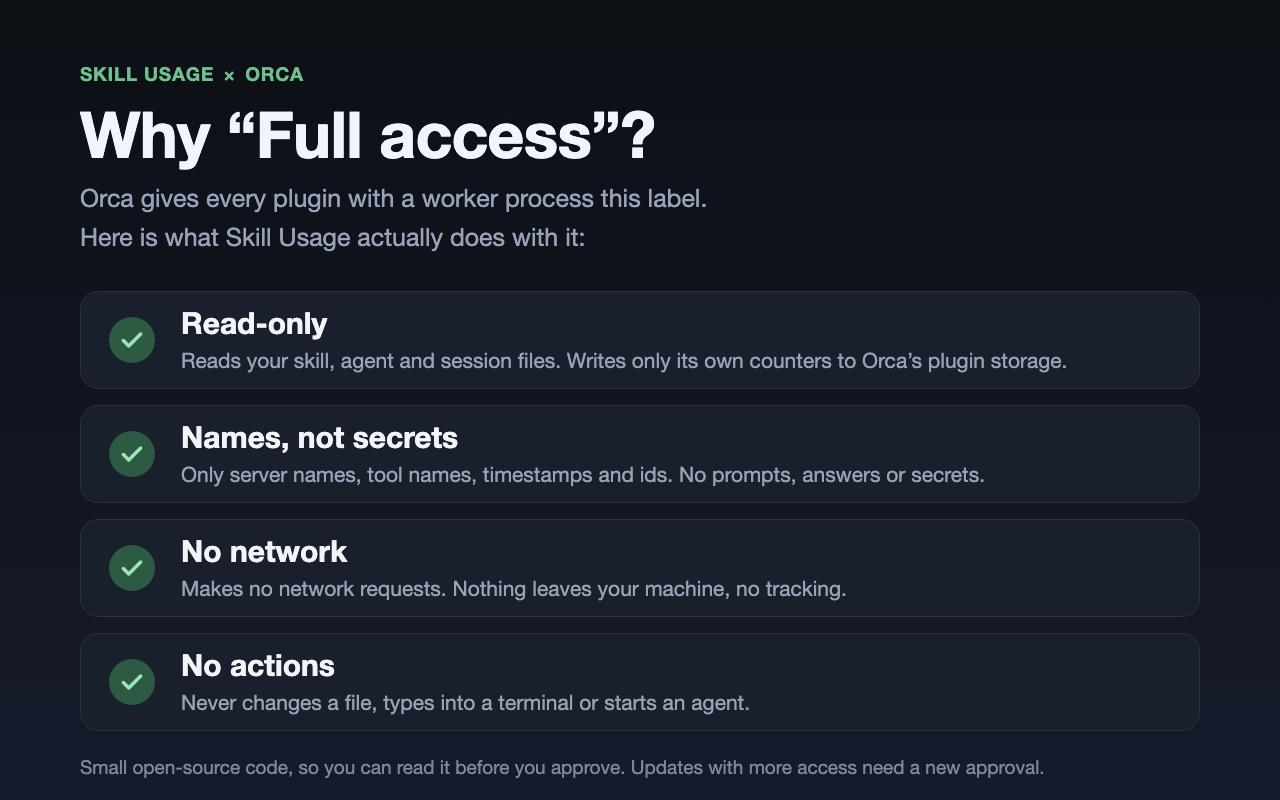
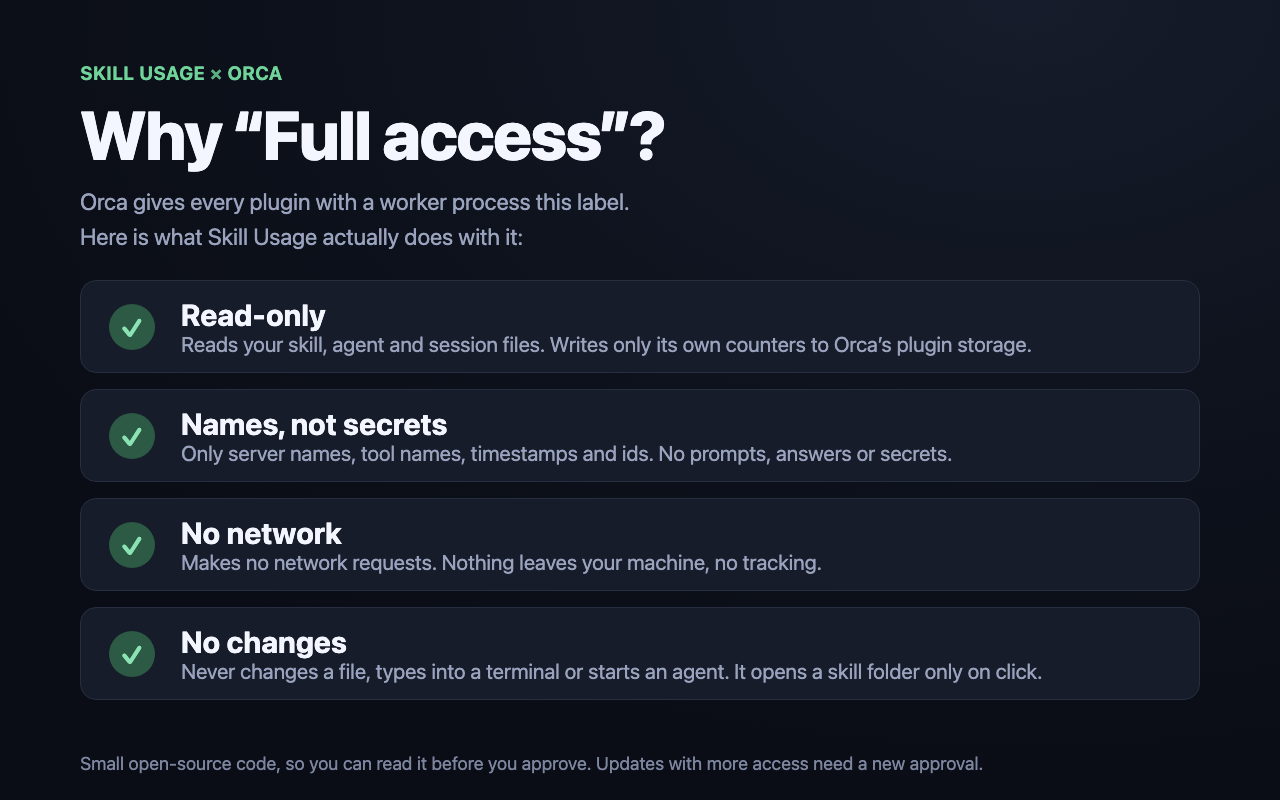
Version 1.1.0: new screenshots, README and CLAUDE.md

diff --git a/tools/build-assets.py b/tools/build-assets.py
@@ -1,0 +1,54 @@
+# Builds the picture cards in assets/ from panel shots (see CLAUDE.md, "Bilder neu erzeugen").
+# Usage: python3 tools/build-assets.py <work dir with panels/*.png>; writes <work dir>/out/*.png.
+import subprocess,os,sys
+S=os.path.abspath(sys.argv[1])
+os.makedirs(S+'/cards',exist_ok=True);os.makedirs(S+'/out',exist_ok=True)
+CHROME="/Applications/Google Chrome.app/Contents/MacOS/Google Chrome"
+CSS="""
+*{box-sizing:border-box;margin:0}
+body{font-family:-apple-system,BlinkMacSystemFont,'Inter','Helvetica Neue',Arial,sans-serif;color:#f1f4ff;background:radial-gradient(1200px 800px at 80% 0%,#161c2b 0%,#0d111b 60%,#0a0d15 100%);overflow:hidden}
+.eyebrow{color:#6fd39a;font-weight:700;letter-spacing:.02em;text-transform:uppercase}
+h1{font-weight:800;letter-spacing:-.02em;line-height:1.08;color:#f4f6ff}
+p{color:#9aa3bd;line-height:1.5}
+.frame{position:absolute;overflow:hidden;border:3px solid #3b4254;border-radius:30px;background:#171717;box-shadow:0 30px 80px rgba(0,0,0,.5)}
+.frame img{display:block;width:100%}
+"""
+def slide(name,w,h,eyebrow,title,sub,img,fx,fy,fw,fh,tx,ty,tw,fs,ps):
+    html=f"""<!doctype html><meta charset=utf-8><style>{CSS}
+body{{width:{w}px;height:{h}px;position:relative}}
+.t{{position:absolute;left:{tx}px;top:{ty}px;width:{tw}px;transform:translateY(-50%)}}
+.eyebrow{{font-size:{int(fs*.4)}px;margin-bottom:{int(fs*.3)}px}}
+h1{{font-size:{fs}px}}
+p{{font-size:{ps}px;margin-top:{int(fs*.35)}px}}
+.frame{{left:{fx}px;top:{fy}px;width:{fw}px;height:{fh}px}}
+</style><div class=t><div class=eyebrow>Skill Usage <span style="opacity:.8">×</span> Orca</div><h1>{title}</h1><p>{sub}</p></div>
+<div class=frame><img src="file://{S}/panels/{img}.png"></div>"""
+    f=f"{S}/cards/{name}.html";open(f,'w').write(html)
+    subprocess.run([CHROME,"--headless=new","--disable-gpu","--hide-scrollbars","--force-device-scale-factor=1",f"--window-size={w},{h}",f"--screenshot={S}/out/{name}.png","file://"+f],check=True,capture_output=True)
+shots=[
+ ("screenshot-overview","What is loaded,<br>what is used","Tokens per session and the entries nobody calls.","demo"),
+ ("screenshot-skills","Where it exists,<br>where it is used","Per skill: calls, tokens per session and per call, and the folder to open.","details"),
+ ("screenshot-project","One project,<br>one period","Find what a single project really needs.","project"),
+ ("screenshot-mcp","MCP servers<br>per project","See which project needs which server.","mcp"),
+ ("screenshot-unused","Find what costs<br>but never runs","Unused entries, sorted by token cost.","unused"),
+ ("screenshot-gone","Know what<br>is gone","Entries that are no longer installed, or that Claude Code brings itself, are named and sorted last.","gone"),
+]
+for n,t,s,i in shots: slide(n,1280,800,"",t,s,i,730,38,460,724,70,400,560,52,24)
+slide("cover",1600,1000,"","Skill<br>Usage","See what your AI really loads<br>and what it actually uses.","demo",1032,96,458,809,90,420,640,84,30)
+# access card
+acc="""<!doctype html><meta charset=utf-8><style>"""+CSS+"""
+body{width:1280px;height:800px;padding:62px 80px}
+.eyebrow{font-size:19px;margin-bottom:14px}h1{font-size:68px}p{font-size:23px;margin-top:14px}
+.row{display:flex;gap:26px;align-items:center;background:#171c2a;border:1px solid #272e40;border-radius:16px;padding:16px 28px;margin-top:16px}
+.ok{flex:none;width:46px;height:46px;border-radius:50%;background:#2c5a45;color:#8be3b4;display:flex;align-items:center;justify-content:center;font-size:26px;font-weight:700}
+.row b{display:block;font-size:30px;color:#f4f6ff}.row span{font-size:21px;color:#9aa3bd}
+.foot{position:absolute;bottom:26px;left:80px;font-size:18px;color:#7d86a0}
+</style><div class=eyebrow>Skill Usage <span style="opacity:.8">×</span> Orca</div><h1>Why “Full access”?</h1>
+<p>Orca gives every plugin with a worker process this label.<br>Here is what Skill Usage actually does with it:</p><div style="margin-top:26px">
+<div class=row><div class=ok>✓</div><div><b>Read-only</b><span>Reads your skill, agent and session files. Writes only its own counters to Orca’s plugin storage.</span></div></div>
+<div class=row><div class=ok>✓</div><div><b>Names, not secrets</b><span>Only server names, tool names, timestamps and ids. No prompts, answers or secrets.</span></div></div>
+<div class=row><div class=ok>✓</div><div><b>No network</b><span>Makes no network requests. Nothing leaves your machine, no tracking.</span></div></div>
+<div class=row><div class=ok>✓</div><div><b>No changes</b><span>Never changes a file, types into a terminal or starts an agent. It opens a skill folder only on click.</span></div></div></div>
+<div class=foot>Small open-source code, so you can read it before you approve. Updates with more access need a new approval.</div>"""
+f=f"{S}/cards/screenshot-access.html";open(f,'w').write(acc)
+subprocess.run([CHROME,"--headless=new","--disable-gpu","--hide-scrollbars","--force-device-scale-factor=1","--window-size=1280,800",f"--screenshot={S}/out/screenshot-access.png","file://"+f],check=True,capture_output=True)

diff --git a/README.md b/README.md
@@ -10,12 +10,15 @@ Every installed skill, MCP server and agent adds its description to the context 
 
 ## What you get
 
-- **Token cost at a glance:** what is loaded in every session, and how much of it was never called.
+- **Token cost at a glance:** what is loaded in every session, how much of it was never called, and what it adds up to over the chosen period (tokens × sessions). Per skill you also see what a call loads (size × calls).
 - **Where it exists, where it is used:** global or project, which projects call it, which AI uses it.
-- **Any project, any period:** latest session, 7, 30 or 90 days.
+- **Any project, any period:** latest session, 7, 30 or 90 days. The filters sit right above the list.
+- **Compact list:** one line per entry with its status next to the name, and a **Details** button for everything else. Long lists are paged, 100 entries per page, so even big inventories render.
+- **Open the folder:** every skill and agent shows where it lives, with an **Open folder** button for macOS, Windows and Linux. You decide what to delete.
+- **Knows what is gone:** entries that were used but are no longer installed are named (built-in, from a removed plugin, from a removed project) and sorted last. Orca's own skills are labeled as such.
 - **Numbers from day one:** it reads your existing session files, no waiting for data to build up.
 - **Facts only:** it never changes a file and never tells you what to delete.
-- English, German and Spanish.
+- **Three languages:** English, German and Spanish, switch in the **Other** tab.
 
 ## See it
 
@@ -23,9 +26,9 @@ Every installed skill, MCP server and agent adds its description to the context 
 
 ![Summary tiles with tokens per session, unused entries and calls](assets/screenshot-overview.png)
 
-**Where it exists, where it is used.** One card per skill, with its projects and AIs.
+**Where it exists, where it is used.** One row per skill. Open **Details** for the folder, the projects, the AIs and the tokens per session and per call.
 
-![Skill cards with calls, AIs and projects](assets/screenshot-skills.png)
+![One skill opened: folder, tokens in the period, projects and AIs](assets/screenshot-skills.png)
 
 **One project, one period.** Find what a single project really needs.
 
@@ -38,6 +41,10 @@ Every installed skill, MCP server and agent adds its description to the context 
 **Find what costs but never runs.** Unused entries, sorted by token cost.
 
 ![Unused entries sorted by token cost](assets/screenshot-unused.png)
+
+**Know what is gone.** Entries that are not installed any more, named and sorted last.
+
+![Entries that are not installed: built-in, from a removed plugin, from a removed project](assets/screenshot-gone.png)
 
 ## Install
 
@@ -53,18 +60,19 @@ From source: `git clone https://github.com/brodesigns/orca-skill-usage`, then `o
 
 Orca labels every plugin with a worker "Full access". Here is what this one does with it:
 
-![Why Full access? Read-only, names not secrets, no network, no actions](assets/screenshot-access.png)
+![Why Full access? Read-only, names not secrets, no network, no changes](assets/screenshot-access.png)
 
-- Reads your skill, agent and session files. It writes only its own counters to Orca's plugin storage.
+- Reads your skill, agent and session files. It writes only its own counters to Orca's plugin storage. It never changes or deletes a file.
 - From sessions it keeps only tool names, command names, timestamps, ids and project names. No prompts, no answers, no file contents. From MCP configs only server names, never env values or tokens.
-- No network requests. It types into no terminal and starts no agent.
+- No network requests. It types into no terminal and starts no agent. The only action is opening a folder in your file manager when you click **Open folder**.
 - It reads the workspace list only to find the folder of the focused workspace.
 
 ## Good to know
 
-- Tokens are estimates (4 characters per token). The size of an MCP server's tool list is unknown, so MCP entries show usage only.
+- Tokens are estimates (4 characters per token). "Always loaded in this period" multiplies the per-session tokens with the number of sessions in the period (every session counts, also short ones): an upper bound, and prompt caching makes the real cost lower. "Loaded on a call" assumes that every call loads the whole `SKILL.md`. The size of an MCP server's tool list is unknown, so MCP entries show usage only.
 - Claude Code is read completely. For Codex only skill reads count, for Gemini there is no usage data: such entries show "no usage data" instead of "unused".
-- "Unused" only means something with enough data for the chosen period.
+- "Unused" only means something with enough data for the chosen period. With one project picked it means unused **in that project**.
+- "Used in" lists the projects of the chosen period and appears only for all projects.
 - Slash commands you type count as usage, built-in ones such as `/model` do not.
 
 <details>
@@ -82,12 +90,14 @@ orca plugin test .
 orca plugin dev watch .
 ```
 
-Code in `src/`: `worker.ts` (hook, storage, import), `history.ts` (session import), `inventory.ts` (disk scan), `merge.ts` (inventory and usage), `usage.ts`, `store.ts`, `panel.tsx` (UI), `i18n.ts` (English, German and Spanish), `protocol.ts`, `demo.ts` (made-up numbers for screenshots: set the storage key `demo` to `true`).
+Code in `src/`: `worker.ts` (hook, storage, import), `history.ts` (session import), `inventory.ts` (disk scan), `merge.ts` (inventory and usage), `usage.ts`, `store.ts`, `panel.tsx` (UI), `i18n.ts` (English, German and Spanish), `protocol.ts`, `demo.ts` (made-up numbers for screenshots: set the storage key `demo` to `true`). The picture cards in `assets/` are built with `tools/build-assets.py` from panel shots (see `CLAUDE.md`).
 
 </details>
 
 ## About
 
 Built and maintained by [BroDesigns](https://brodesigns.de), a web agency.
+
+Contributions: paging for large inventories by [Ciucci01](https://github.com/Ciucci01), Spanish translation by [YuniorGlez](https://github.com/YuniorGlez).
 
 MIT license.

diff --git a/CLAUDE.md b/CLAUDE.md
@@ -4,7 +4,7 @@
 
 - Orca-Plugin: zeigt, welche Skills, MCP-Server, Agents und Plugins von Claude Code, Codex und Gemini wirklich genutzt werden, pro Projekt.
 - Zeigt die Kontextkosten (Tokens) ungenutzter Einträge.
-- Nur lesend: ändert keine Dateien, kein Netzwerk, keine Empfehlungen zum Löschen.
+- Nur lesend: ändert keine Dateien, kein Netzwerk, keine Empfehlungen zum Löschen. Einzige Aktion: "Ordner öffnen" auf Klick (macOS `open`, Windows `explorer.exe`, Linux `xdg-open`), nur für Pfade aus dem eigenen Inventar-Scan.
 - Öffentliches Repo (MIT), Autor BroDesigns (https://brodesigns.de).
 
 ## Tech Stack
@@ -22,14 +22,15 @@
 | `src/worker.ts` | Hook, Storage, Import-Steuerung |
 | `src/history.ts` | Import der Session-Dateien (Claude `~/.claude/projects`, Codex `~/.codex/sessions`) |
 | `src/inventory.ts` | Scan von Skills, Agents, Plugins, MCP-Configs, CLAUDE.md/AGENTS.md/GEMINI.md |
-| `src/merge.ts` | Inventar + Nutzung zusammenführen |
+| `src/merge.ts` | Inventar + Nutzung zusammenführen; Einordnung nicht installierter Einträge (`goneSkillSource`, Listen `CLAUDE_SKILLS`/`CLAUDE_AGENTS` von Hand gepflegt) |
 | `src/usage.ts`, `src/totals.ts` | Zähler, Summen |
 | `src/store.ts` | Storage in Chunks |
 | `src/panel.tsx` | UI |
-| `src/i18n.ts` | Texte EN/DE |
+| `src/i18n.ts` | Texte EN/DE/ES |
 | `src/protocol.ts` | Nachrichten Worker ↔ Panel |
 | `src/demo.ts` | Fake-Zahlen für Screenshots (Storage-Key `demo` = `true`) |
 | `assets/` | Cover und Screenshots (im Manifest und README referenziert) |
+| `tools/build-assets.py` | Baut die Bildkarten in `assets/` aus Panel-Shots (Headless Chrome) |
 
 ## Befehle
 
@@ -44,7 +45,7 @@ orca plugin dev load .   # Plugin lokal laden
 ## Konventionen
 
 - Alles auf Englisch: Code, Kommentare, Commits, README, UI-Basistexte. Ausnahme: deutsche UI-Texte in `i18n.ts` (echte Umlaute).
-- Neue UI-Texte immer in EN und DE in `i18n.ts`.
+- Neue UI-Texte immer in EN, DE und ES in `i18n.ts` (`es` ist als `typeof en` getypt, fehlende Keys fallen beim Compiler auf).
 - Keine Co-Authored-By-Zeile in Commits. Commit und Push nur auf Zuruf.
 - Zu jeder Logik-Datei gehört eine `*.test.ts`. Neue Logik mit Test.
 - Versionsänderung: `orca-plugin.json` und README zusammen prüfen.
@@ -57,4 +58,11 @@ orca plugin dev load .   # Plugin lokal laden
 - Codex: nur Skill-Reads zählen. Gemini: keine Nutzungsdaten, dort "no usage data" statt "unused".
 - Claude Code wird aus den Session-Dateien gezählt, der Hook zählt nur andere AIs. Sonst doppelte Zählung.
 - Eingebaute Slash-Commands (`/model`) zählen nicht, selbst getippte Skill-Commands schon.
+- Zählung: Aufrufe pro Tag **und** pro KI (`Entry.ag`), damit "Genutzt von" dem Zeitraum folgt. Formatänderung im Verlauf: `HISTORY_VERSION` erhöhen (löst einen vollständigen Neuimport aus, ca. 3000 Dateien).
+- "Genutzt in" folgt dem gewählten Zeitraum und erscheint nur bei "Alle Projekte" und Zeitraum > Letzte Sitzung, sonst widerspricht es dem Badge "ungenutzt".
+- Kosten-Zeilen: `tokens` = Beschreibung je Session, `note content:N` = ganze SKILL.md je Aufruf. Im Zeitraum: Tokens × Sessions (Obergrenze, Session = letzte Aktivität im Zeitraum) bzw. Größe × Aufrufe.
+- Quelle `orca` für Orcas eigene Skills: feste Liste `ORCA_SKILLS` in `inventory.ts`. Neue Orca-Skills dort ergänzen.
+- Das Panel sieht Pfade nur mit `~`; `folder.open` nimmt nur Pfade, die der Scan gefunden hat.
+- Listen sind auf 100 Karten pro Seite begrenzt (Orca lehnt Renders über 5000 Nodes ab).
+- Screenshots neu erzeugen: Orca minimieren (`--scenario` und `--act` brauchen ein verstecktes Fenster), je Szenario `orca plugin shot . --panel skill-usage --scenario <name> --width 520 --height 1000 --theme dark --out <dir>/panels/<name>.png` (demo, details, project, mcp, unused, gone), dann `python3 tools/build-assets.py <dir>` und die PNGs aus `<dir>/out` nach `assets/` kopieren.
 - Vor einem Release `orca plugin validate .` und `orca plugin test .` laufen lassen.
